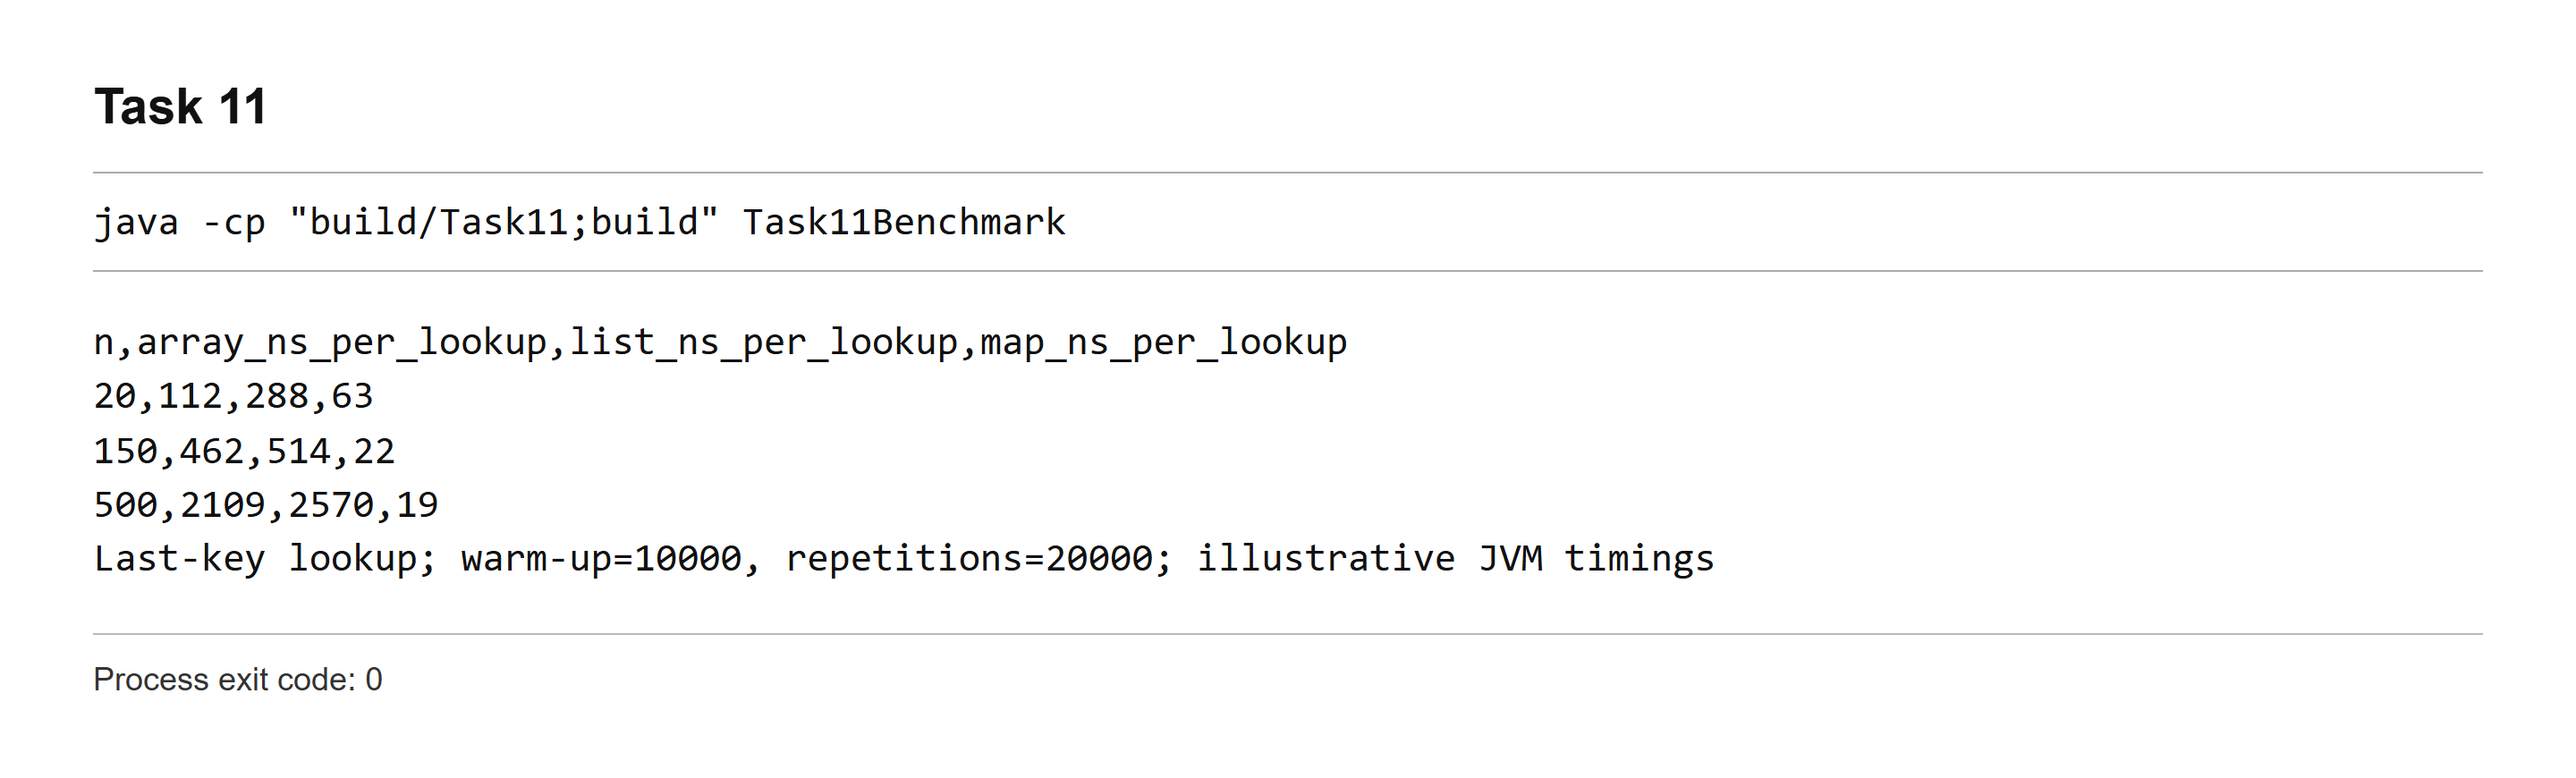
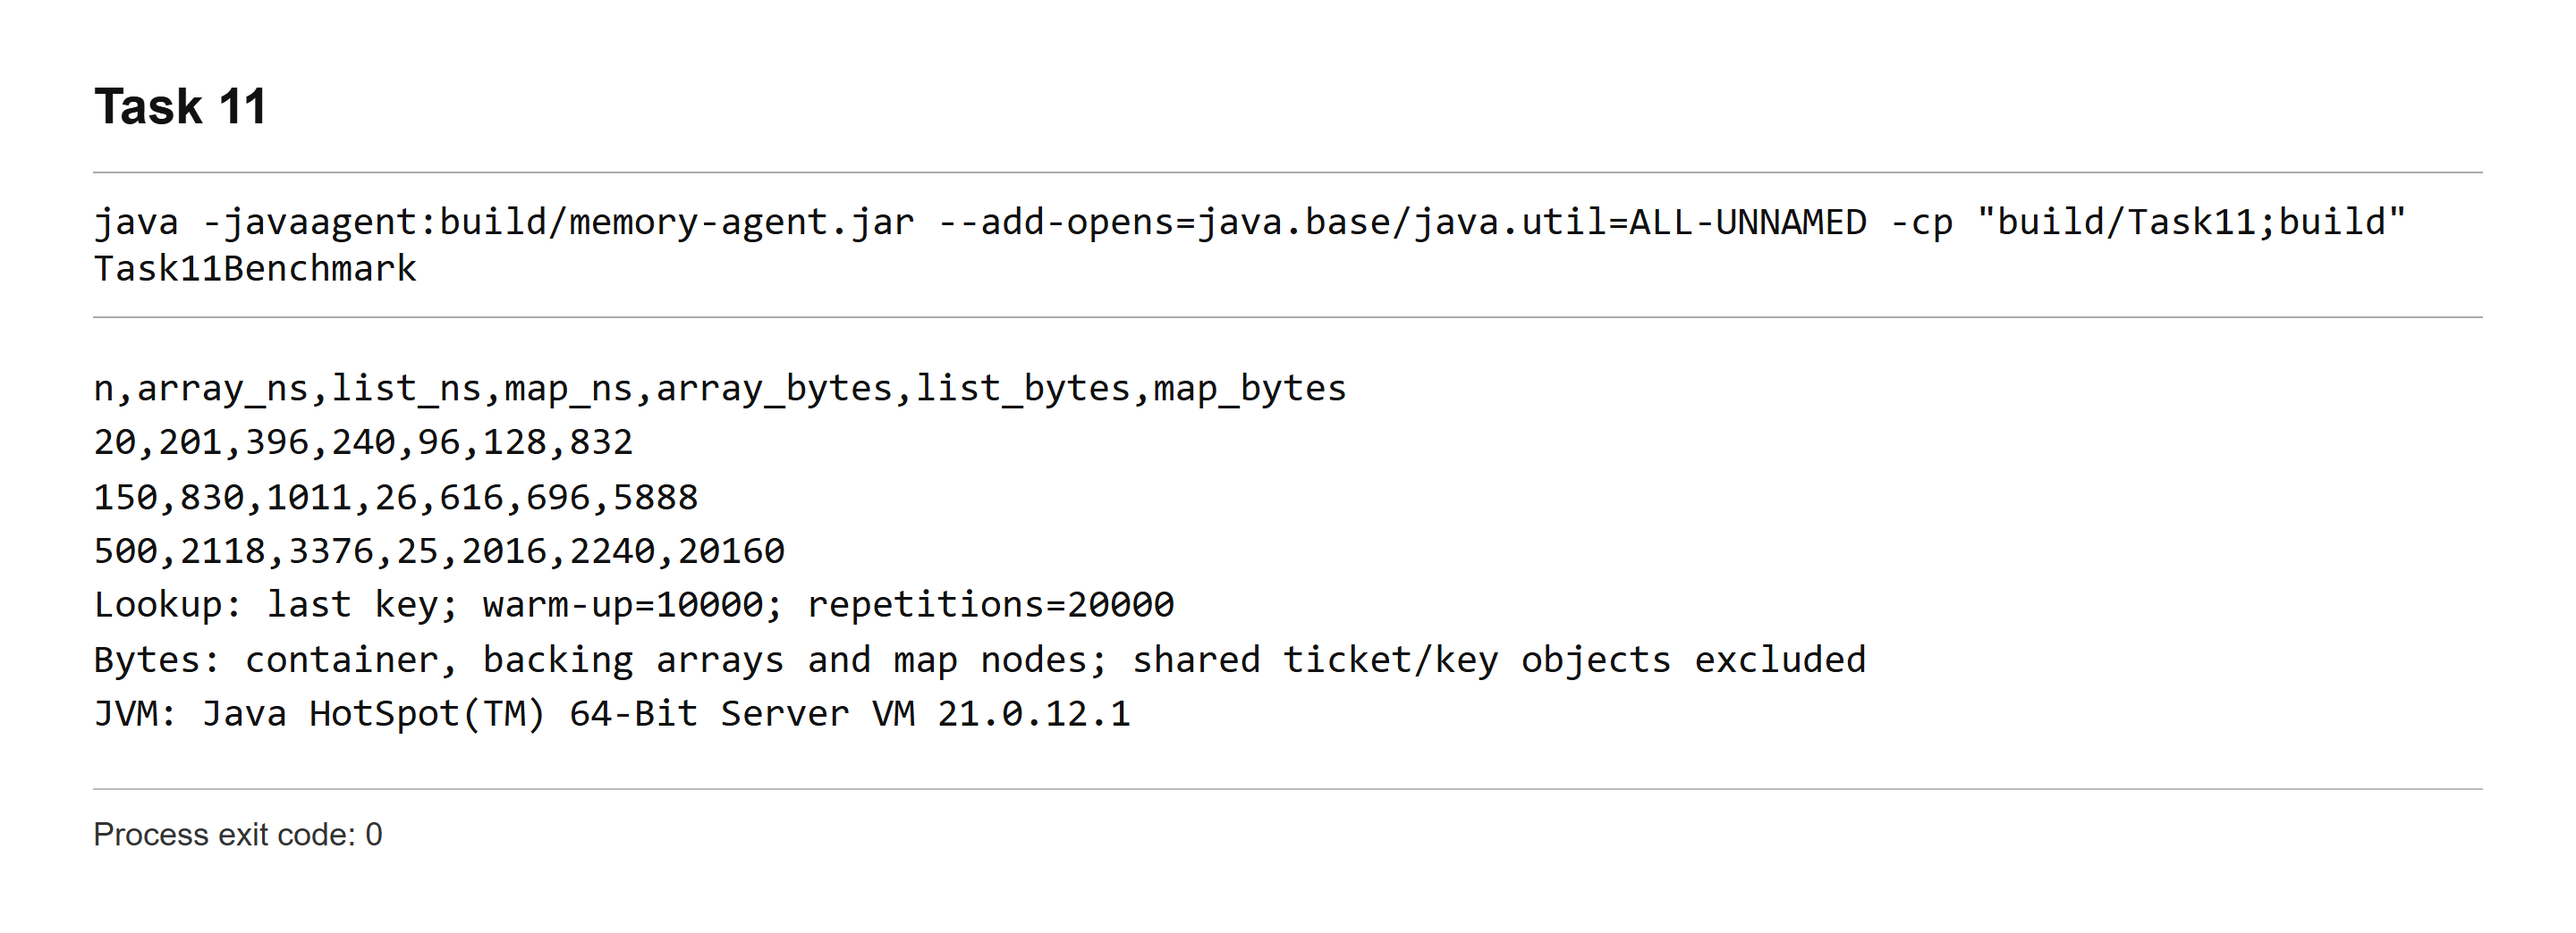
Record task inputs and measure ticket collection storage

diff --git a/Task11/Task11MemoryAgent.java b/Task11/Task11MemoryAgent.java
@@ -1,0 +1,41 @@
+import java.lang.instrument.Instrumentation;
+import java.lang.reflect.Field;
+import java.lang.reflect.Modifier;
+import java.util.ArrayDeque;
+import java.util.IdentityHashMap;
+public final class Task11MemoryAgent {
+    private static Instrumentation instrumentation;
+    public static void main(String[] args) {
+        System.out.println(System.getProperty("java.home"));
+    }
+    public static void premain(String arguments, Instrumentation instance) {
+        instrumentation = instance;
+    }
+    public static long containerBytes(Object root) throws IllegalAccessException {
+        if (instrumentation == null) throw new IllegalStateException("Run with the memory agent");
+        IdentityHashMap<Object, Boolean> seen = new IdentityHashMap<>();
+        ArrayDeque<Object> pending = new ArrayDeque<>();
+        pending.add(root);
+        long bytes = 0;
+        while (!pending.isEmpty()) {
+            Object value = pending.removeFirst();
+            Class<?> type = value.getClass();
+            if (!(value instanceof Object[]) && !type.getName().startsWith("java.util.")) continue;
+            if (seen.put(value, Boolean.TRUE) != null) continue;
+            bytes += instrumentation.getObjectSize(value);
+            if (value instanceof Object[] array) {
+                for (Object item : array) if (item != null) pending.add(item);
+            } else {
+                for (Class<?> c = type; c != Object.class; c = c.getSuperclass()) {
+                    for (Field field : c.getDeclaredFields()) {
+                        if (Modifier.isStatic(field.getModifiers()) || field.getType().isPrimitive()) continue;
+                        if (!field.trySetAccessible()) throw new IllegalStateException("Open java.base/java.util for measurement");
+                        Object item = field.get(value);
+                        if (item != null) pending.add(item);
+                    }
+                }
+            }
+        }
+        return bytes;
+    }
+}

diff --git a/Task11/Task11Benchmark.java b/Task11/Task11Benchmark.java
@@ -14,8 +14,8 @@ public class Task11Benchmark {
         for(ParkingTicket t:a) if(t.getVehicle().getRegNo().equals(key)) return t;
         return null;
     }
-    public static void main(String[] args) {
-        System.out.println("n,array_ns_per_lookup,list_ns_per_lookup,map_ns_per_lookup");
+    public static void main(String[] args) throws Exception {
+        System.out.println("n,array_ns,list_ns,map_ns,array_bytes,list_bytes,map_bytes");
         for(int n:new int[]{20,150,500}) {
             ParkingTicket[] a=new ParkingTicket[n];
             java.util.ArrayList<ParkingTicket> list=new java.util.ArrayList<>();
@@ -33,8 +33,14 @@ public class Task11Benchmark {
             long lst=System.nanoTime()-start;start=System.nanoTime();
             for(int i=0;i<repeats;i++) sink=map.get(key).hashCode();
             long hm=System.nanoTime()-start;
-            System.out.println(n+","+arr/repeats+","+lst/repeats+","+hm/repeats);
+            long arrayBytes = Task11MemoryAgent.containerBytes(a);
+            long listBytes = Task11MemoryAgent.containerBytes(list);
+            long mapBytes = Task11MemoryAgent.containerBytes(map);
+            if (arrayBytes <= 0 || listBytes <= 0 || mapBytes <= 0) throw new AssertionError("Invalid memory measurement");
+            System.out.println(n+","+arr/repeats+","+lst/repeats+","+hm/repeats+","+arrayBytes+","+listBytes+","+mapBytes);
         }
-        System.out.println("Last-key lookup; warm-up=10000, repetitions=20000; illustrative JVM timings");
+        System.out.println("Lookup: last key; warm-up=10000; repetitions=20000");
+        System.out.println("Bytes: container, backing arrays and map nodes; shared ticket/key objects excluded");
+        System.out.println("JVM: " + System.getProperty("java.vm.name") + " " + System.getProperty("java.version"));
     }
 }

diff --git a/README.md b/README.md
@@ -1,4 +1,4 @@
-# Campus Smart-Parking System — Assignment 1
+# Campus Smart-Parking System â€” Assignment 1
 
 Name: R SARVESH
 
@@ -25,7 +25,7 @@ javac --release 17 -d build $sourceFiles
 }
 ```
 
-Each task compiles separately because the class names in the supplied exercises overlap the integrated vehicle model. Task03 and Task08 retain the supplied program behaviour; their public entry classes are named Task03 and Task08.
+Each task compiles separately because the supplied exercises use class names that overlap the integrated model. Task03/ParkingFacility.java and Task08/FeeDemo.java retain the supplied public class names and main methods. Task03.java and Task08.java are optional task-numbered launchers.
 
 ## Run each task
 
@@ -33,12 +33,12 @@ Each task compiles separately because the class names in the supplied exercises 
 |---|---|---|
 | 1 | `java -cp "build/Task01;build" Task01` | Creates different vehicle objects and finds a registration |
 | 2 | `java -cp "build/Task02;build" Task02` | Shows unequal floor capacities and correct 61-minute billing |
-| 3 | `java -cp "build/Task03;build" Task03` | Matches all six supplied output lines |
+| 3 | `java -cp "build/Task03;build" ParkingFacility` | Matches all six supplied output lines |
 | 4 | `java -cp "build/Task04;build" Task04` | Exercises short and full ticket constructors |
 | 5 | `java -cp "build/Task05;build" Task05` | Confirms distinct ticket identities across two facilities |
 | 6 | `java -cp "build/Task06;build" Task06` | Prints the superclass-to-subclass constructor trace |
 | 7 | `java -cp "build/Task07;build" Task07` | Confirms registration equality and consistent hashing |
-| 8 | `java -cp "build/Task08;build" Task08` | Matches all four supplied output lines |
+| 8 | `java -cp "build/Task08;build" FeeDemo` | Matches all four supplied output lines |
 | 9 | `java -cp "build/Task09;build" Task09` | Exercises abstract-class and interface behaviour |
 | 10 | `java -cp "build/Task10;build" Task10` | Rejects invalid state changes and compares wrapper values |
 | 11 | `java -cp "build/Task11;build" Task11` | Passes 43 assertions, including the Rs 330 collection check |
@@ -48,11 +48,23 @@ Additional required comparisons and tests:
 
 ```powershell
 java -cp "build/Task08;build" Task08Overloading
-java -cp "build/Task11;build" Task11Benchmark
 java -cp "build/Task12;build" Task12Tests
 ```
 
-Task12Tests passes 31 assertions. Together, Tasks 11 and 12 contain 74 passing assertions. Benchmark timings vary between runs.
+## Measure ticket collection memory
+
+The memory benchmark uses a Java instrumentation agent. Build it after compiling the task sources:
+
+```powershell
+@('Manifest-Version: 1.0', 'Premain-Class: Task11MemoryAgent', '') | Set-Content -Encoding ascii build/agent-manifest.mf
+$jdkHome = java -cp build/Task11 Task11MemoryAgent
+& (Join-Path $jdkHome 'bin/jar.exe') --create --file build/memory-agent.jar --manifest build/agent-manifest.mf -C build/Task11 Task11MemoryAgent.class
+java -javaagent:build/memory-agent.jar --add-opens=java.base/java.util=ALL-UNNAMED -cp "build/Task11;build" Task11Benchmark
+```
+
+The benchmark reports lookup nanoseconds and measured collection-storage bytes for 20, 150 and 500 tickets. It includes backing arrays and map entry nodes, but excludes the ticket, vehicle and registration objects shared by all three collections. Results depend on JVM layout. The package-opening option is used only to inspect java.util backing fields during this benchmark; the parking application does not require it.
+
+Task12Tests passes 31 assertions. Together, Tasks 11 and 12 contain 74 passing assertions. Benchmark timings vary between runs. Task06 enables constructor tracing for the actual Vehicle, Car and ElectricCar objects only during its construction example.
 
 The integrated baseline application can also be run with:
 
@@ -63,16 +75,16 @@ java -cp build parking.app.Main CAR TN01A1
 
 ## Files
 
-- `Task01`–`Task12`: Java source and output screenshots; Task06 also contains the UML diagram.
+- `Task01`â€“`Task12`: Java source and output screenshots; Task06 also contains the UML diagram. Each task has an input.csv fixture.
 - `src/parking`: shared model, service, pass, pricing and application classes.
 - `docs/Assignment_Report.pdf` and `docs/Assignment_Report.docx`: answers, pseudocode, UML, test tables and complexity analysis.
 
-Inputs are fixed in the task source files so the runs can be repeated. No external input files are needed. Main accepts optional vehicle-type and registration arguments. PNG output screenshots are browser captures of actual Java process output at 2880-pixel width; longer outputs are split into numbered images. The generated `build` folder is excluded from Git.
+Inputs remain fixed in the task source files so the original programs can be repeated without changing their main methods. Each task folder also contains input.csv with the corresponding input values. These CSV files document the fixtures; they are not redirected to standard input. Main accepts optional vehicle-type and registration arguments. PNG output screenshots are browser captures of actual Java process output at 2880-pixel width; longer outputs are split into numbered images. The generated `build` folder is excluded from Git.
 
 ## Assumptions
 
 Two-wheelers cost Rs 10 per started hour; cars and EVs cost Rs 30. Zero duration is free. Electricity costs Rs 12/kWh and is not waived by a pass. The last slot on a floor with at least two slots is reserved for charging; other slots are general. Monthly passes cover staff/students for a specified registration and calendar month. Visitor day passes cover one registration and one calendar date, excluding the next midnight.
 
-E-bikes cost Rs 20 for any positive stay. Delivery vans cost Rs 60/hour during 09:00–17:00 and Rs 30/hour otherwise; actual overlap is prorated and the final total is rounded upward to a whole rupee. Pass purchase prices and a daily parking cap were not specified and are not added.
+E-bikes cost Rs 20 for any positive stay. Delivery vans cost Rs 60/hour during 09:00â€“17:00 and Rs 30/hour otherwise; actual overlap is prorated and the final total is rounded upward to a whole rupee. Pass purchase prices and a daily parking cap were not specified and are not added.
 
 The application uses in-memory state and one thread. Ticket IDs combine a process UUID and shared counter; permanent guaranteed uniqueness and recovery after restart would require persistent storage.
